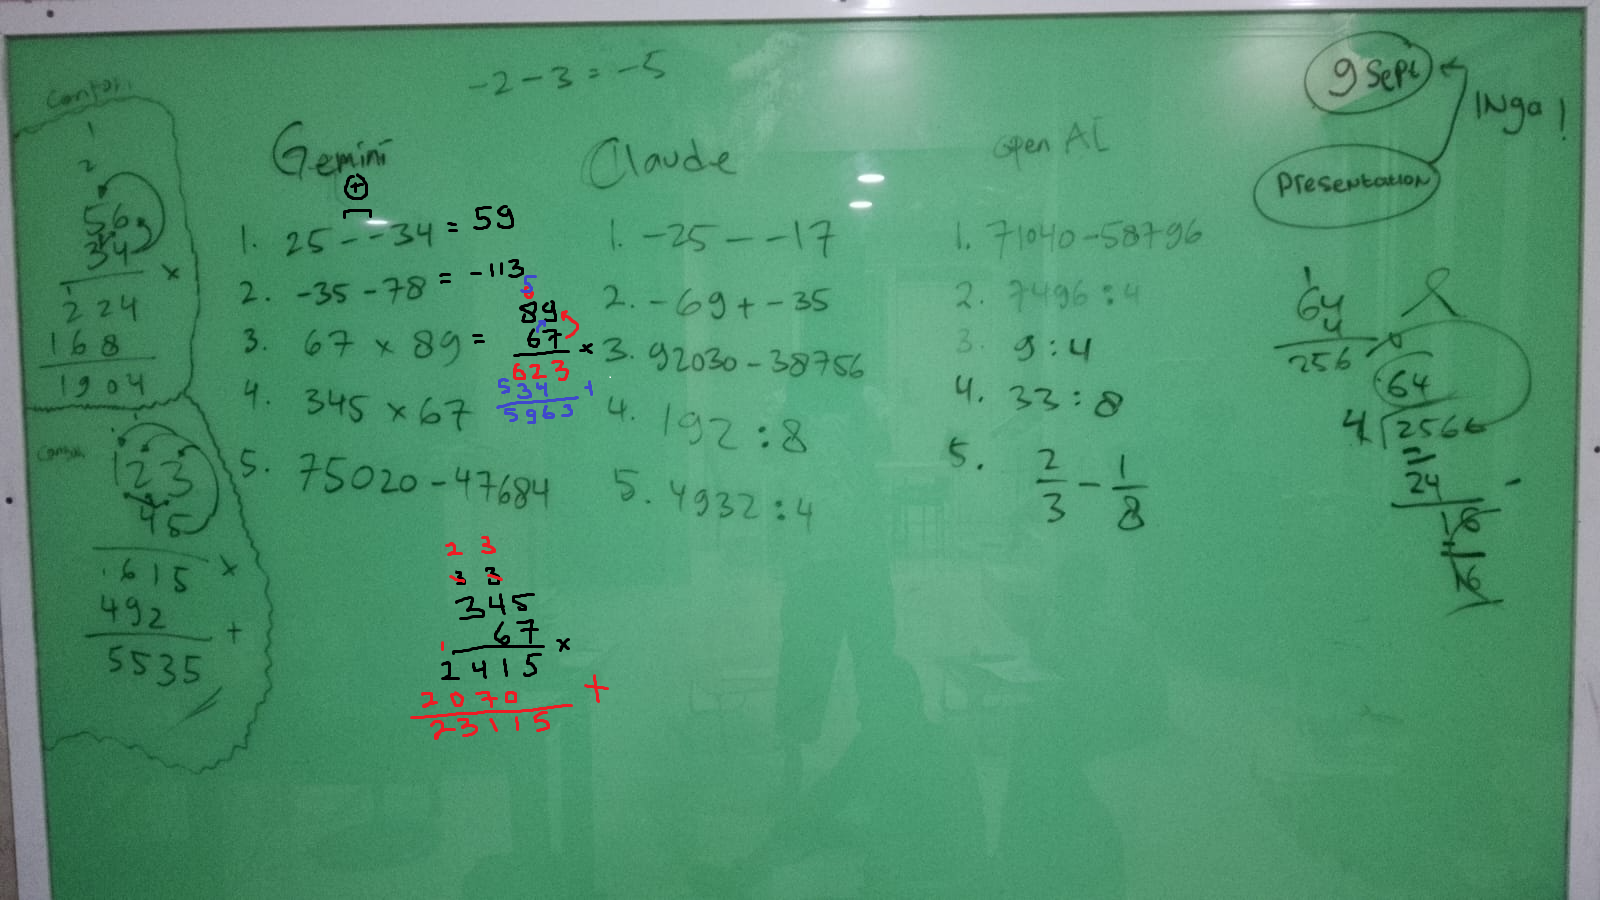
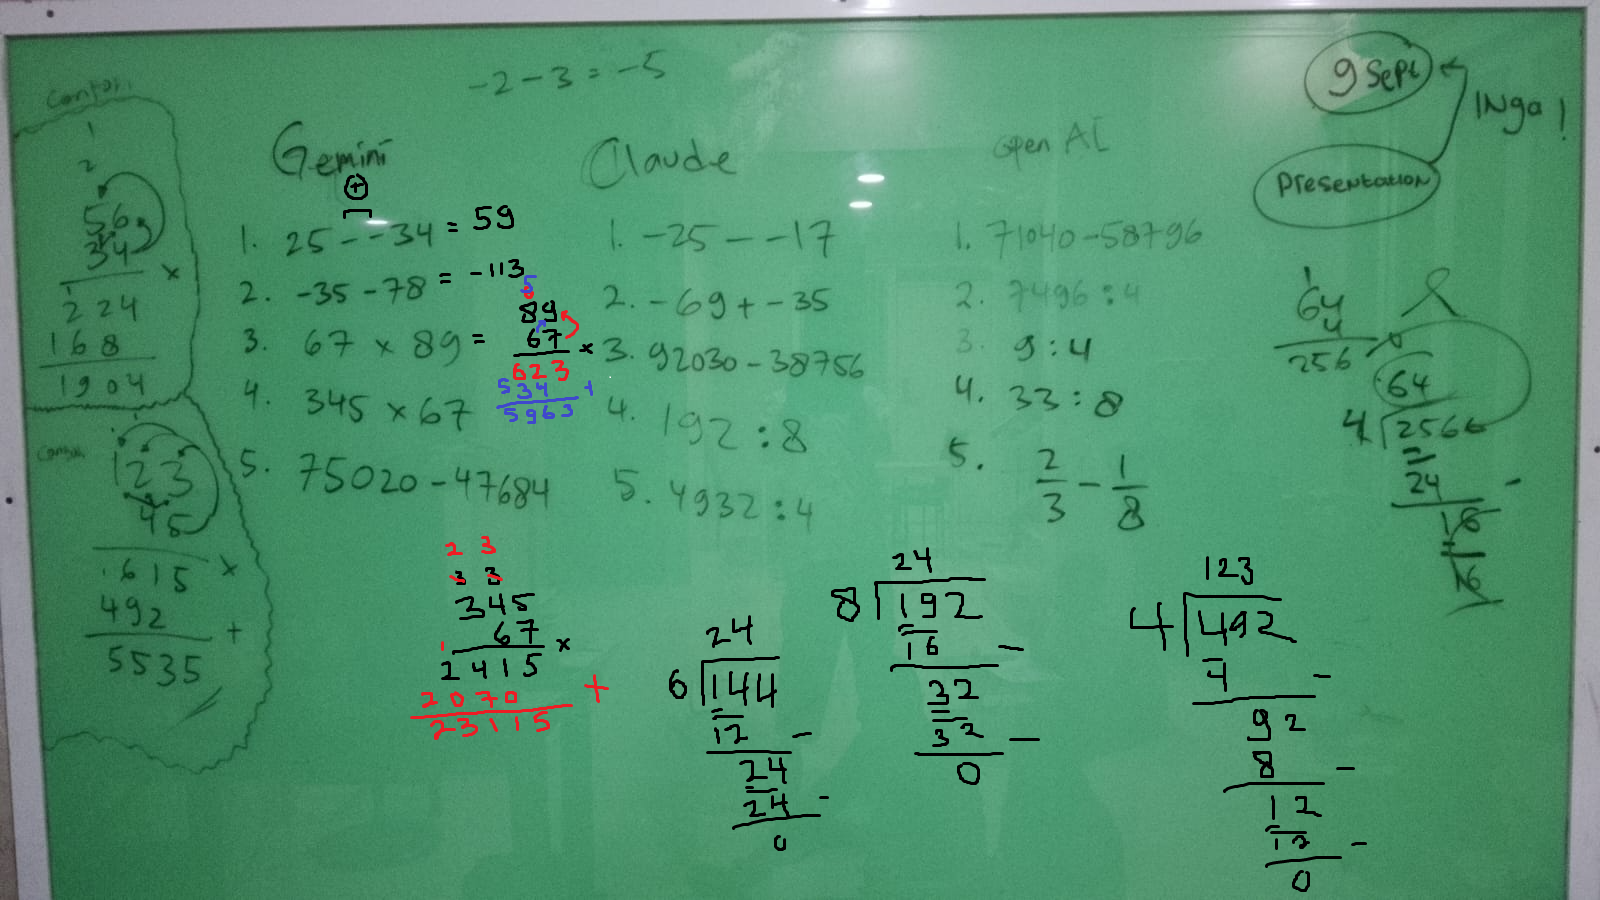
position n overflow

diff --git a/htmlcss/9-position-n-overflow/css/style.css b/htmlcss/9-position-n-overflow/css/style.css
@@ -1,0 +1,65 @@
+body{background-color: red;}
+.induk-relative{
+  background-color: green;
+  width: 100px;
+  height: 100px;
+  margin-inline: auto;
+  border-radius: 50%;
+  position: relative;
+}
+.elemen-absolute{
+  background-color: yellow;
+  width: 25px;
+  height: 25px;
+  border-radius: 50%;
+  position: absolute;
+  left: 50%;
+  top: 50%;
+  transform: translate(-50%,-50%); 
+}
+.tugas1{
+  background-color: black;
+  width: 10px;
+  height: 10px;
+  position: absolute;
+  top: 50%;
+  transform: translateY(-50%);
+  left: 15px;
+}
+.tugas2{
+  background-color: black;
+  width: 20px; 
+  height: 20px;
+  position: absolute;
+  left: 50%; 
+  bottom: 0; 
+  transform: translate(-50%,50%); 
+}
+.induk{
+  background-color: blue;
+  width: 100px;
+  height: 100px;
+  margin-inline: auto;
+  position: relative;
+  overflow: hidden;
+}
+.anak{
+  width: 40px;
+  height: 40px;
+  background-color: green;
+  position: absolute;
+  top: 0;
+  left: 50%; 
+  transform: translate(-50%,-50%);  
+  border-radius: 50%;
+}
+.anak-kiri-bawah{
+  width: 40px;
+  height: 40px;
+  background-color: yellow;
+  position: absolute;
+  bottom: 0;
+  left: 0%; 
+  transform: translate(-50%,50%);  
+  border-radius: 50%;
+}

diff --git a/htmlcss/9-position-n-overflow/index.html b/htmlcss/9-position-n-overflow/index.html
@@ -1,0 +1,40 @@
+<!DOCTYPE html>
+<html lang="en">
+<head>
+  <meta charset="UTF-8">
+  <meta name="viewport" content="width=device-width, initial-scale=1.0">
+  <title>Document</title>
+  <link rel="stylesheet" href="./css/style.css">
+</head>
+<body>
+  <h1>absolute positioning</h1>
+  <p>penempatan elemen yang melenceng dari elemen induknya yang relative berdasarkan trbl (top right bottom left)</p>
+
+  <div class="induk-relative">
+    <div class="elemen-absolute"></div>
+    <div class="tugas1"></div>
+    <div class="tugas2"></div>
+  </div>
+
+  <!-- 
+  menengahkan elemen tanpa flex dan grid:
+  rata kiri kanan saja:
+    left50% dan translateX-50%
+  rata atas bawah saja
+    top50% dan translateY-50%
+  persis di tengah
+    top50% left50% translate-50%,-50%
+
+  tugas 1, rata atas bawah tanpa px, dari kiri 15px
+  tugas 2, rata kiri kanan tanpa px, ujung bawah separo dalam separo luar
+  -->
+
+  <h2>Overflow</h2>
+  <p>penyesuaian induk elemen agar elemen anaknya terpotong saat melampaui ukuran induknya</p>
+  <div class="induk">
+    <div class="anak"></div>
+    <div class="anak-kiri-bawah"></div>
+  </div>
+
+</body>
+</html>
